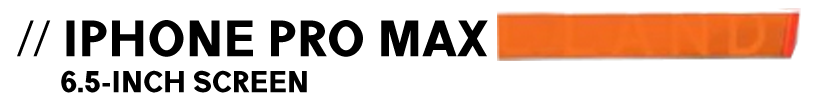
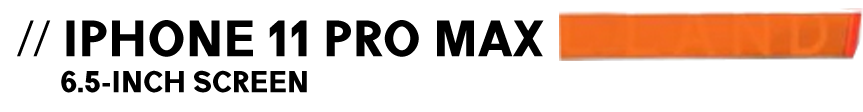
finished updating headers

diff --git a/dist/main.js b/dist/main.js
@@ -258,7 +258,7 @@ eval("module.exports = JSON.parse(\"{\\\"screen protector\\\":[{\\\"asin\\\":\\\
 /*! no static exports found */
 /***/ (function(module, exports) {
 
[2 lines of base64/hex data omitted]
 
 /***/ }),
 

diff --git a/env.js b/env.js
@@ -3,5 +3,5 @@ module.exports = {
 	clientPrefix: 'uag',
 	merchantID: 'A3DVC6WBVNJ5RS',
 	primaryTab: 'bundle1',
-	release: '1.9.2'
+	release: '1.9.8'
 };
